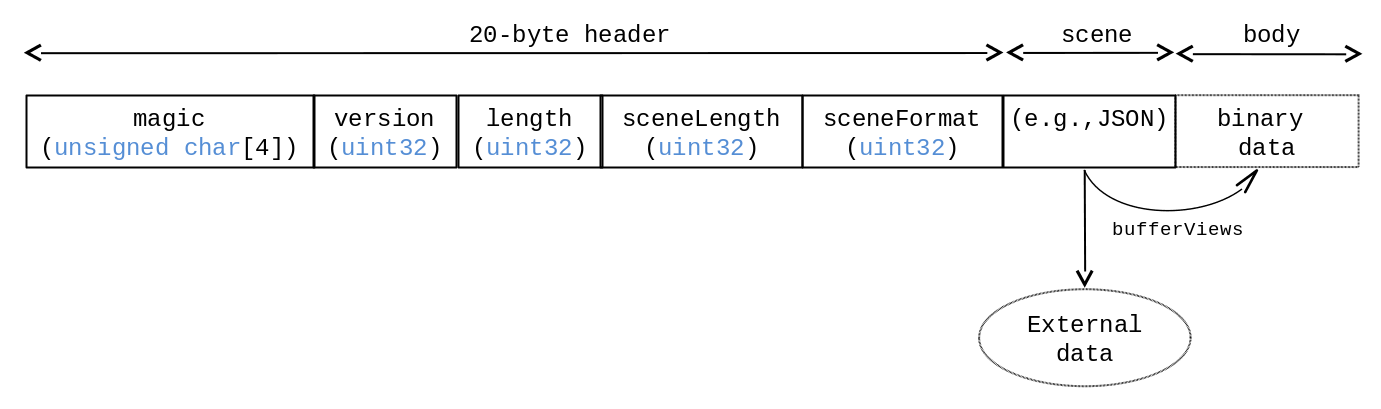
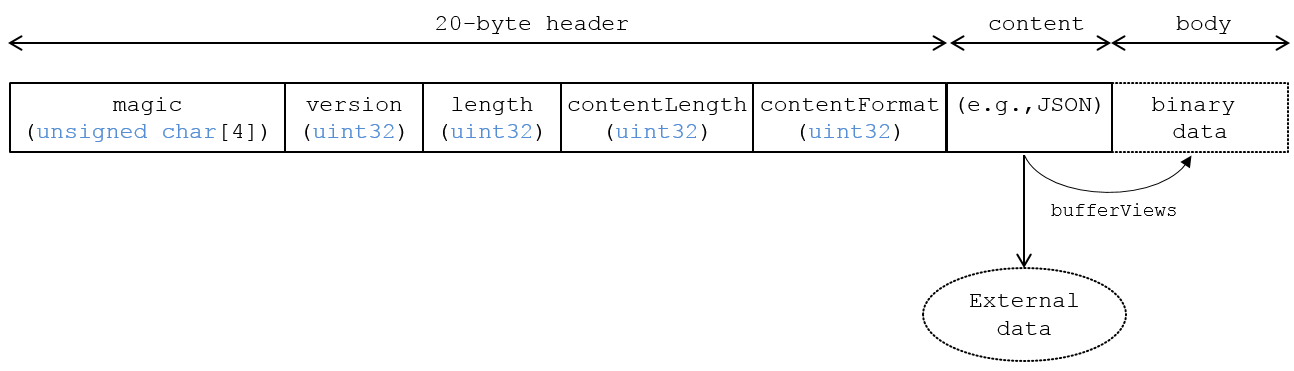
Rename scene to content in Binary glTF extension spec

Changed region(s): [[0.0, 0.2075, 1.0, 0.7412], [0.0, 0.0296, 1.0, 0.1482], [0.711, 0.7412, 0.8655, 0.9784]]

diff --git a/extensions/Khronos/KHR_binary_glTF/README.md b/extensions/Khronos/KHR_binary_glTF/README.md
@@ -30,10 +30,10 @@ In Binary glTF, a glTF asset (JSON, .bin, images, and shaders) can be stored in 
 This binary blob (which can be a file, for example) is divided into three subsequent parts:
 
 * A 20-byte preamble, entitled the `header`
-* The structured glTF scene description, entitled the `scene`
+* The structured glTF content, entitled the `content`
 * The binary `body`
 
-The `scene` part can refer to external resources as usual, and can also reference resources stored within the binary `body`.
+The `content` part can refer to external resources as usual, and can also reference resources stored within the binary `body`.
 
 ## Binary glTF Layout
 
@@ -53,11 +53,11 @@ The 20-byte header consists of the following five 4-byte entries:
 
 * `version` is an `uint32` that indicates the version of the Binary glTF container format. Currently available versions are shown in Table 1.
 
-* `length` is the total length of the Binary glTF, including `header`, `scene`, and `body`, in bytes.
+* `length` is the total length of the Binary glTF, including `header`, `content`, and `body`, in bytes.
 
-* `sceneLength` is the length, in bytes, of the glTF `scene`. It must be greater than zero.
+* `contentLength` is the length, in bytes, of the glTF `content`. It must be greater than zero.
 
-* `sceneFormat` specifies the format of the glTF `scene`. A list of all valid  values currently available is in Table 2.
+* `contentFormat` specifies the format of the glTF `content`. A list of all valid  values currently available is in Table 2.
 
 **Table 1**: Valid values for `version`
 
@@ -66,22 +66,22 @@ The 20-byte header consists of the following five 4-byte entries:
 | 1       | 0x00000001 | Version 1   |
 
 
-**Table 2**: Valid values for `sceneFormat`
+**Table 2**: Valid values for `contentFormat`
 
 | Decimal | Hex        | Description |
 |--------:|-----------:|------------:|
 | 0       | 0x00000000 | JSON        |
 
 
-### Scene
+### Content
 
-The `scene` part holds the structured glTF scene description, as it would be provided within a .gltf file in glTF without this extension.
-In a JavaScript implementation, the `TextDecoder` API can be used to extract the glTF scene from the arraybuffer, and then the JSON can be parsed with `JSON.parse` as usual.
+The `content` part holds the structured glTF content description, as it would be provided within a .gltf file in glTF without this extension.
+In a JavaScript implementation, the `TextDecoder` API can be used to extract the glTF content from the arraybuffer, and then the JSON can be parsed with `JSON.parse` as usual.
 
-By reading the `scene` first, an implementation is able to progressively retrieve resources from the binary body.
+By reading the `content` first, an implementation is able to progressively retrieve resources from the binary body.
 This way, it is also possible to read only a selected subset of resources from a Binary glTF asset (for instance, the coarsest LOD of a mesh).
 
-Elements of the `scene` can refer to binary data within the `body`, using a special buffer with an id equal to `"binary_glTF"`.
+Elements of the `content` can refer to binary data within the `body`, using a special buffer with an id equal to `"binary_glTF"`.
 For more details, see [glTF Schema Updates](#gltf-schema-updates) below.
 
 Binary glTF still supports external resources.
@@ -93,7 +93,7 @@ An advantage of Binary glTF over glTF is that resources can be embedded without 
 
 The binary `body` is the binary payload for geometry, animation key frames, skins, images, and shaders.
 
-The start of `body` is 4-byte aligned to ease its use with JavaScript Typed Arrays.  This implies that trailing spaces may be added to the JSON in the `scene` part such that `(20 + sceneLength)` is divisible by `4`.
+The start of `body` is 4-byte aligned to ease its use with JavaScript Typed Arrays.  This implies that trailing spaces may be added to the JSON in the `content` part such that `(20 + contentLength)` is divisible by `4`.
 
 The buffer with id equal to `"binary_glTF"` is used to address the content of the binary `body`.
 An offset of zero addresses the first byte of the binary `body`.
